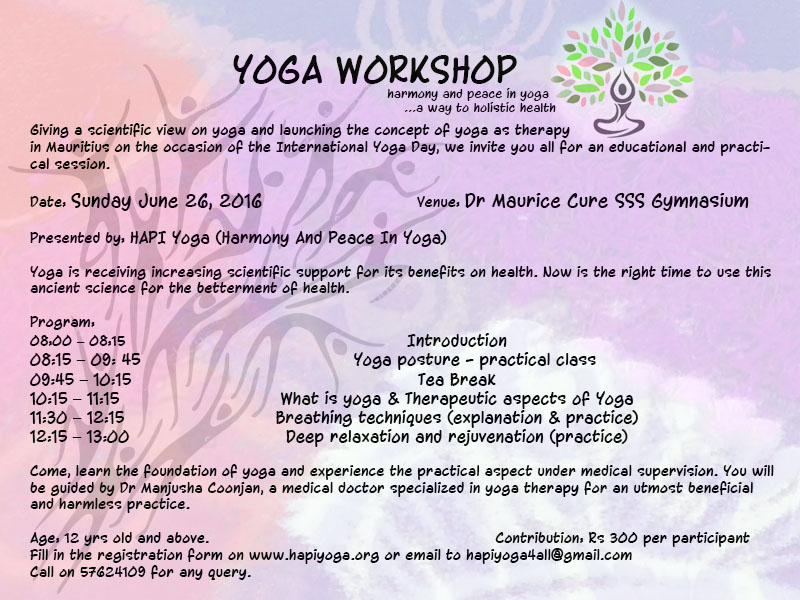
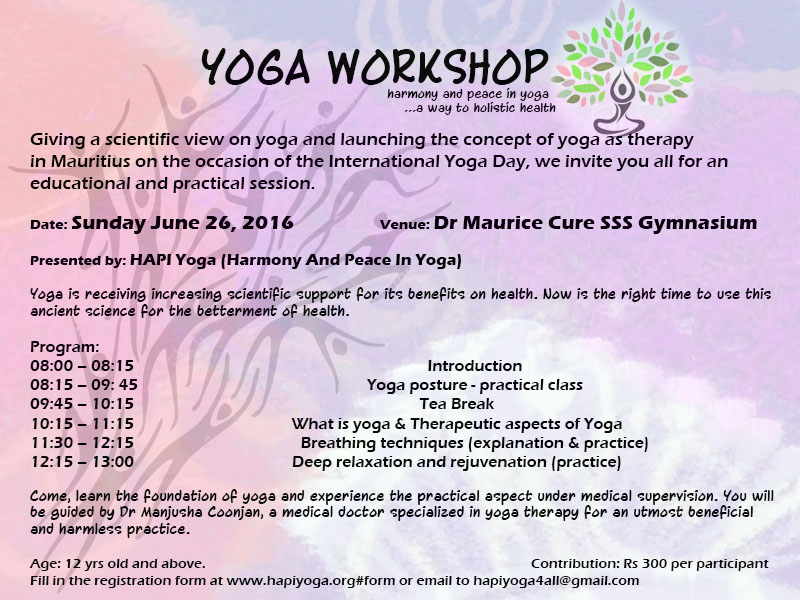
google form embeded.
minor changes.
site uptodate. (all done)

Changed region(s): [[0.0312, 0.21, 0.9688, 0.99], [0.25, 0.06, 0.6875, 0.15]]

diff --git a/index.html b/index.html
@@ -54,6 +54,7 @@
               <li><a href="#books">Books</a></li>
               <li><a href="#testimonials">Testimonials</a></li>
               <li><a href="#events">Events</a></li>
+              <li><a href="#form">Form</a></li>
               <li><a href="#contact_us">Contact Us</a></li>
             </ul>
             <ul class="nav navbar-nav navbar-right">
@@ -180,7 +181,7 @@
             <img src="./assets/img/manjusha1.jpg" width="300px" />
           </div>
           <div class="col-lg-8">
-            <h3>The Founder</h3>
+            <h3>Dr Manjusha Coonjan (Founder of hapi yoga, Medical doctor specialised in Yoga therapy/Integrative medicine, Traditional yoga teacher, Marma therapist, Counselor and life coach)</h3>
             <p class="lead">
               Dr Manjusha Coonjan is a general medical practitioner with past working experience in various fields (approx. 9 years spent as a senior medical and health officer in Victoria Hospital,one of the major public hospitals of Mauritius). Based on the benefits of yoga on her own health, she decided to go for a more formal training in this field. The comparatively new subject of yoga therapy had emerged shortly and was the next step. Having completed postgraduate studies in Yoga Therapy at Kaivalyadhama, Lonavla, India, she is well-equipped, with the help of her supporting team, to assist patients in following a lifestyle-modifying method tailor-made for each individual accompanied by a continuous medical follow-up. Her aim as a medical professional is to assist people achieve a better health by preventing disharmony at the earliest stage therefore preserving good health, and controlling the progression of already established diseases .
               <br/><br/>
@@ -195,7 +196,7 @@
             <img src="./assets/img/yogesh.jpg" width="300px" />
           </div>
           <div class="col-lg-8">
-            <h3>Acharya Yogesh</h3>
+            <h3>Acharya Yogesh (Hatha Yoga Expert, Chakra therapist, Yoga and philosophy teacher)</h3>
             <p class="lead">
               Acharya Yogesh is one of the authentic gems in the world of yoga. He had been working as an insurance banker, and at one point of time, he decided to quit the corporate world and dedicate his life to yoga. With the help of yoga he lost 16 kg of weight, got rid of many minor health problems and avoided a surgery advised by his doctor. Through his own cure, he became motivated to spread the therapeutic aspects of different yogic practices. Over the past years, he has developed a scientific attitude towards spiritual practices leading to combination of Eastern feeling and Western mind. He has been practicing alternative healing therapy, a combination of psychological counselling, ayurveda, mudra therapy, yoga and pranic healing and especially chakra cleansing and balancing. Yogesh has also a tremendous experience in teaching philosophy, yogic anatomy, hatha yoga, pranayama, meditation and various cleansing processes in different schools (conducted above 80 teacher training courses) and individual workshops in India, Switzerland, Germany, Norway, Spain, Netherlands and several other countries.             </p>
           </div>
@@ -206,7 +207,7 @@
             <img src="./assets/img/bixin.png" width="300px" />
           </div>
           <div class="col-lg-8">
-            <h3>Ms Bi Xin</h3>
+            <h3>Bi Xin Xin (Traditional yoga teacher, Yoga therapist)</h3>
             <p class="lead">
               Ms Bi Xin Xin was born and grew up in south China. Incidentally,she became an asana (yoga posture) practitioner in 2006, after 7 years of regular practice; she found that some health issues such as emotional problems, neuro-physical diseases etc., still persisted. With this dissatisfaction, she tried a three-week course in the yoga foundation at Kaivalyadhama, Lonavla, India in 2013. The latter is a well-established and one of the genuinely traditional yoga institutes in India. She then decided to quit her job, and stay at Kaivalyadhama for a formal training in yoga therapy to treat herself optimally. In 2016, she completed the Postgraduate Diploma course in Yoga Therapy as well as noted a huge improvement in her own health. Now she is planning to share her experience and techniques she learned from all her teachers and friends in India, to assist each individual to counteract their stress in daily life, therefore reach a highly achievable state of balance at physical and emotional levels.</p>
           </div>
@@ -349,6 +350,29 @@
         <hr/>
         <img alt="paper poster for event" src="assets/img/paper_poster.jpg" width="100%" />
       </div>
+
+      <div id="form">
+        <h1>Register for yoga event</h1>
+        <!--
+        <form>
+          Name: <input type="text" name="name"><br/>
+          Birthday:  <input type="date" name="bday"><br/>
+          Age: <input type="number" id="qty" min="12" max="100" step="1" />
+          Sex:
+          <select>
+            <option value="f">Female</option>
+            <option value="m">Male</option>
+          </select><br/>
+          Email:<input type="email" title="Please, provide an e-mail" x-moz-errormessage="This is not a valid e-mail"><br/>
+          Phone: <input type="tel" name="phone"></br>
+          <textarea rows="4" cols="50">Past diseases and surgery, Medications if any, and Any other specification.
+          </textarea><br/>
+          <input type="submit" value="Submit">
+        </form>
+      -->
+      <iframe src="https://docs.google.com/forms/d/1Qew1WJZuGivJNgGpZWMAb3CHhqyVJdaw_spals8c2M8/viewform?embedded=true" max-width="760" width="100%" height="1650px" frameborder="0" marginheight="0" marginwidth="0">Loading...</iframe>
+      </div>
+      <!-- end of events page -->
       <!-- start of contact us page -->
       <div id="contact_us">
         <br/><br/>
@@ -359,9 +383,10 @@
         <p class="lead">
               cellphone: (+230) 5 762 4109
               <br/>
-              office: (+230) 467 2526/499 4514
+              office: (+230) 467 2526/499 4514 (PLMC)<br/>
+              &nbsp;&nbsp;&nbsp;&nbsp;&nbsp;&nbsp;&nbsp;&nbsp;&nbsp;&nbsp;&nbsp;&nbsp;&nbsp;        (+230) 588 1588 (MMC)
               <br/>
-              fax: (+230) 467 8707
+              fax: (+230) 467 8707 (PLMC)
         </p>
 
         <h2>E-mail:</h2>
@@ -372,32 +397,20 @@
         <div class="row">
           <div class="col-md-6">
             <p class="lead">
-              For Yoga:
-              <br/>
-              33 avenue pelican, sodnac Quatre Bornes, Mauritius<br/><br/>
+              Multicare Medical Center (MMC), Tout Court Road, <br/>Camp Fouquereaux (near round-about)<br/>
             </p>
 
-                      <iframe src="https://www.google.com/maps/embed?pb=!1m18!1m12!1m3!1d3742.7413266989265!2d57.48651131491997!3d-20.269559986414478!2m3!1f0!2f0!3f0!3m2!1i1024!2i768!4f13.1!3m3!1m2!1s0x0%3A0x0!2zMjDCsDE2JzEwLjQiUyA1N8KwMjknMTkuMyJF!5e0!3m2!1sen!2sus!4v1462810364108" width:"100%"  height="450" frameborder="0" style="width:100%" allowfullscreen></iframe>
+                      <iframe src="https://www.google.com/maps/embed?pb=!1m14!1m8!1m3!1d3742.316078799506!2d57.52672!3d-20.28718!3m2!1i1024!2i768!4f13.1!3m3!1m2!1s0x217c5b8ce8d1b5c9%3A0x98e7a9cee5377131!2sCamp+Fouquereaux%2C+Vacoas-Phoenix%2C+Mauritius!5e0!3m2!1sen!2sus!4v1465367039230" width="100%" height="440" frameborder="0" style="border:0" allowfullscreen></iframe>
           </div>
           <div class="col-md-6">
             <p class="lead">
-              For Consultation:
-              <br/>
-              Poly Lab Medical Center, Columbia court, St. Jean Rd, Quatre Bornes
+              Poly Lab Medical Center (PLMC), Columbia court, <br/> St. Jean Rd, QB
             </p>
                       <script src='https://maps.googleapis.com/maps/api/js?v=3.exp'></script><div style='overflow:hidden;height:440px;width:100%;'><div id='gmap_canvas' style='height:440px;width:100%;'></div><div><small><a href="http://embedgooglemaps.com">									embed google maps							</a></small></div><div><small><a href="http://www.proxysitereviews.com/">proxies</a></small></div><style>#gmap_canvas img{max-width:none!important;background:none!important}</style></div><script type='text/javascript'>function init_map(){var myOptions = {zoom:13,center:new google.maps.LatLng(-20.26089,57.4826597),mapTypeId: google.maps.MapTypeId.ROADMAP};map = new google.maps.Map(document.getElementById('gmap_canvas'), myOptions);marker = new google.maps.Marker({map: map,position: new google.maps.LatLng(-20.26089,57.4826597)});infowindow = new google.maps.InfoWindow({content:'<strong>Poly Lab Medical Center</strong><br>Columbia Courts, Quatre Bornes, Mauritius<br>'});google.maps.event.addListener(marker, 'click', function(){infowindow.open(map,marker);});infowindow.open(map,marker);}google.maps.event.addDomListener(window, 'load', init_map);</script>
           </div>
           </div>
         </div>
-        <div>
-          <!--
-          <iframe src="https://www.google.com/maps/embed?pb=!1m18!1m12!1m3!1d3742.7413266989265!2d57.48651131491997!3d-20.269559986414478!2m3!1f0!2f0!3f0!3m2!1i1024!2i768!4f13.1!3m3!1m2!1s0x0%3A0x0!2zMjDCsDE2JzEwLjQiUyA1N8KwMjknMTkuMyJF!5e0!3m2!1sen!2sus!4v1462810364108" width:"100%"  height="450" frameborder="0" style="width:100%" allowfullscreen></iframe>
 
-
-
-          <script src='https://maps.googleapis.com/maps/api/js?v=3.exp'></script><div style='overflow:hidden;height:440px;width:100%;'><div id='gmap_canvas' style='height:440px;width:100%;'></div><div><small><a href="http://embedgooglemaps.com">									embed google maps							</a></small></div><div><small><a href="http://www.proxysitereviews.com/">proxies</a></small></div><style>#gmap_canvas img{max-width:none!important;background:none!important}</style></div><script type='text/javascript'>function init_map(){var myOptions = {zoom:13,center:new google.maps.LatLng(-20.26089,57.4826597),mapTypeId: google.maps.MapTypeId.ROADMAP};map = new google.maps.Map(document.getElementById('gmap_canvas'), myOptions);marker = new google.maps.Marker({map: map,position: new google.maps.LatLng(-20.26089,57.4826597)});infowindow = new google.maps.InfoWindow({content:'<strong>Poly Lab Medical Center</strong><br>Columbia Courts, Quatre Bornes, Mauritius<br>'});google.maps.event.addListener(marker, 'click', function(){infowindow.open(map,marker);});infowindow.open(map,marker);}google.maps.event.addDomListener(window, 'load', init_map);</script>
-          -->
-        </div>
 
       <!-- end of contact us page -->
 
